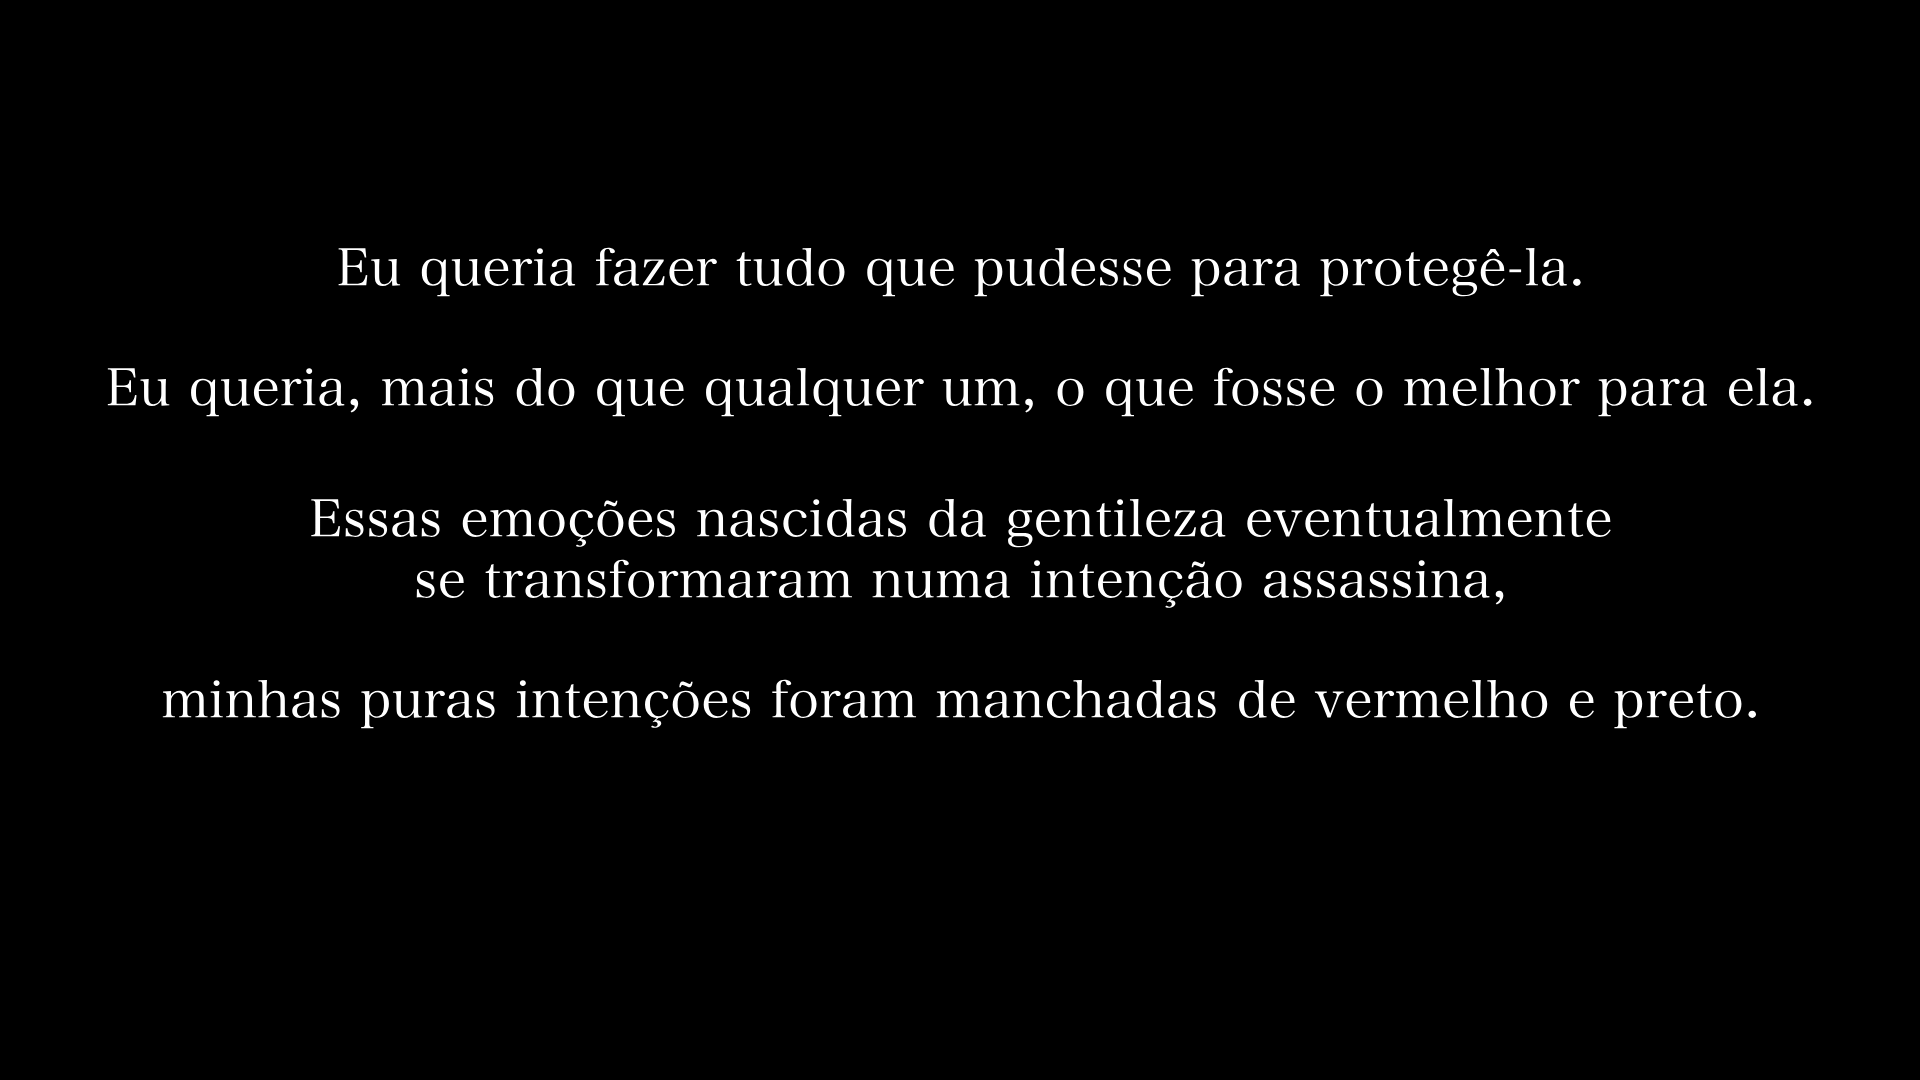
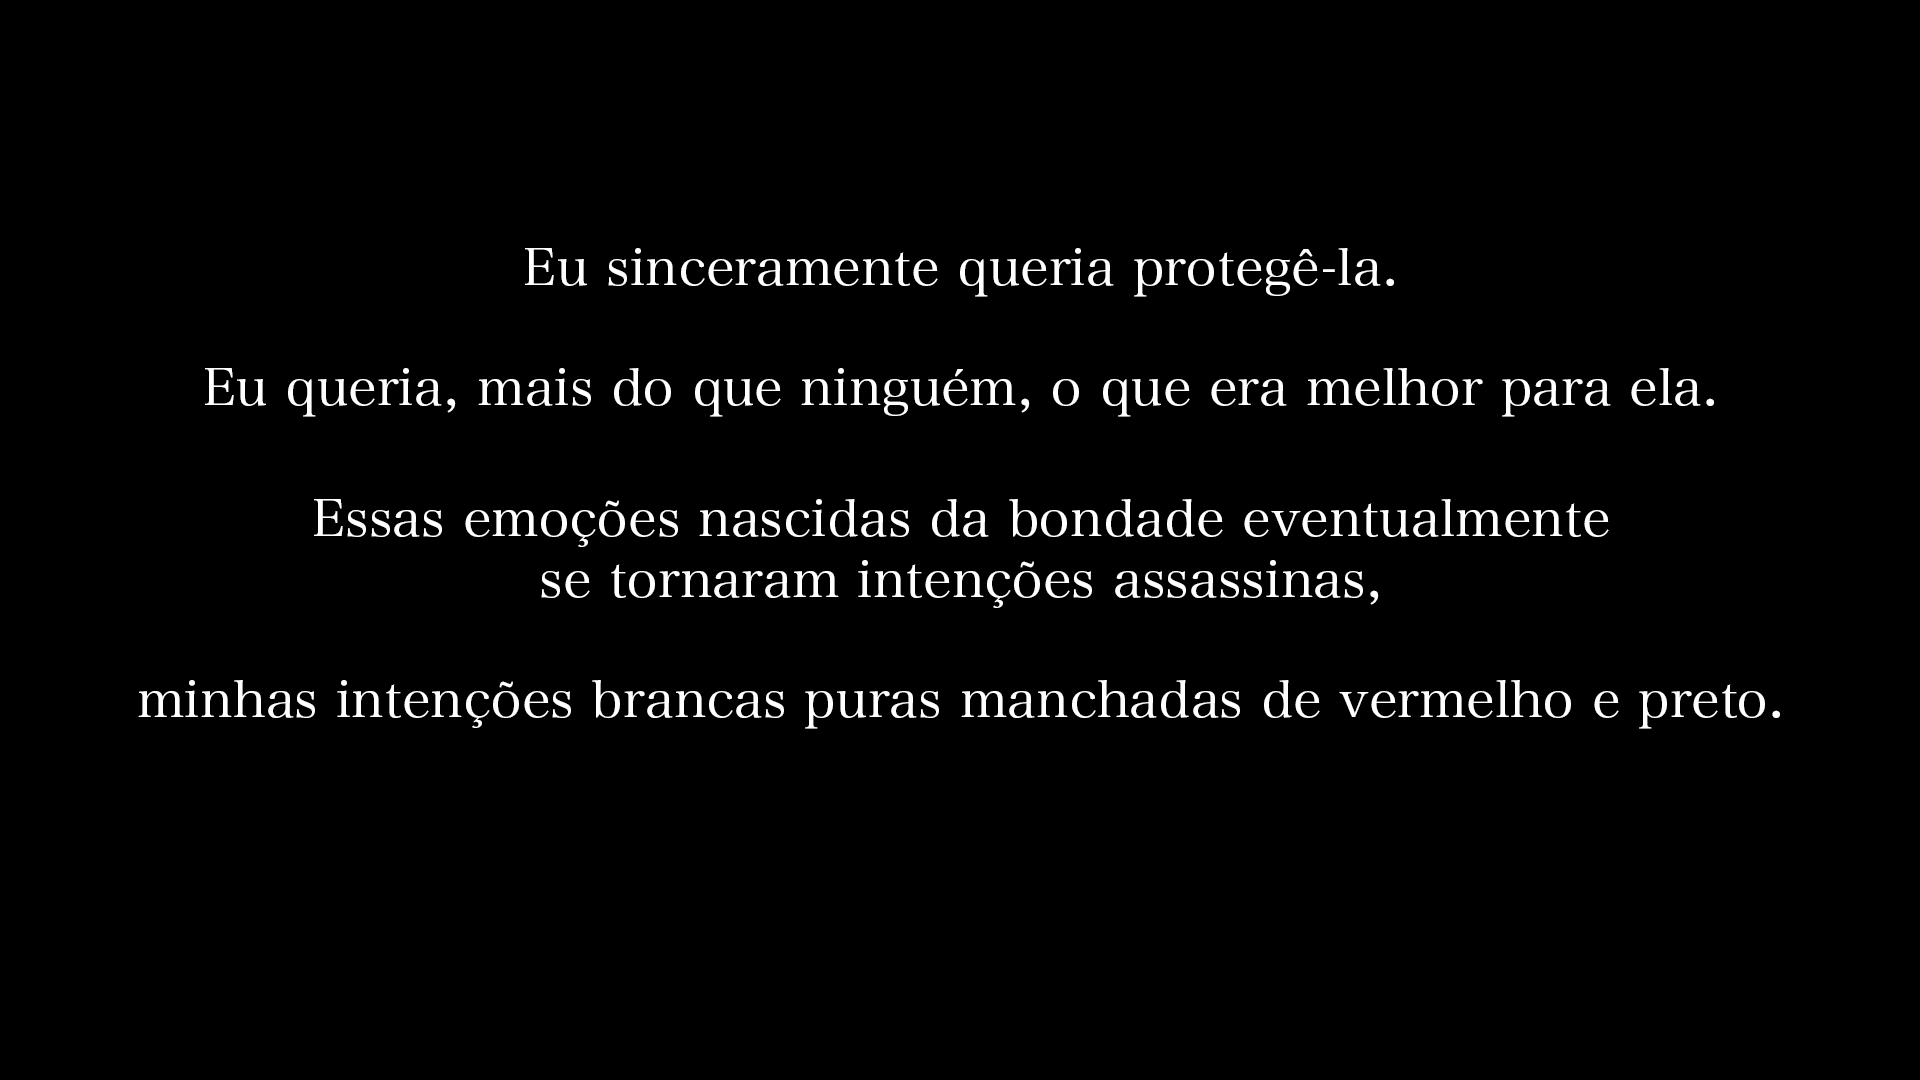
Update monologue and README

diff --git a/README.md b/README.md
@@ -1,7 +1,9 @@
 # Higurashi When They Cry Hou - Cap.3 Tatarigoroshi
 
-Tradução do terceiro capítulo de _Higurashi When They Cry_ da [_Higurashi Eternal_](https://higurashieternal.wordpress.com/) adaptada para ser totalmente compatível com o [_07th-Mod_](https://07th-mod.com).
+Tradução de _Higurashi When They Cry Hou_ da _Higurashi Eternal_ adaptada para ser compatível com o [_07th-Mod_](https://07th-mod.com).
 
 ## Créditos
 
-[Higurashi Eternal](https://higurashieternal.wordpress.com/) - Liberado o uso dos textos e imagens das suas traduções de Higurashi no Naku Koro ni.
+[Higurashi Eternal](https://higurashieternal.wordpress.com/) - Tradução do jogo.
+
+[lunhas](https://www.youtube.com/@lunhasz) - Tradução do monólogo.
